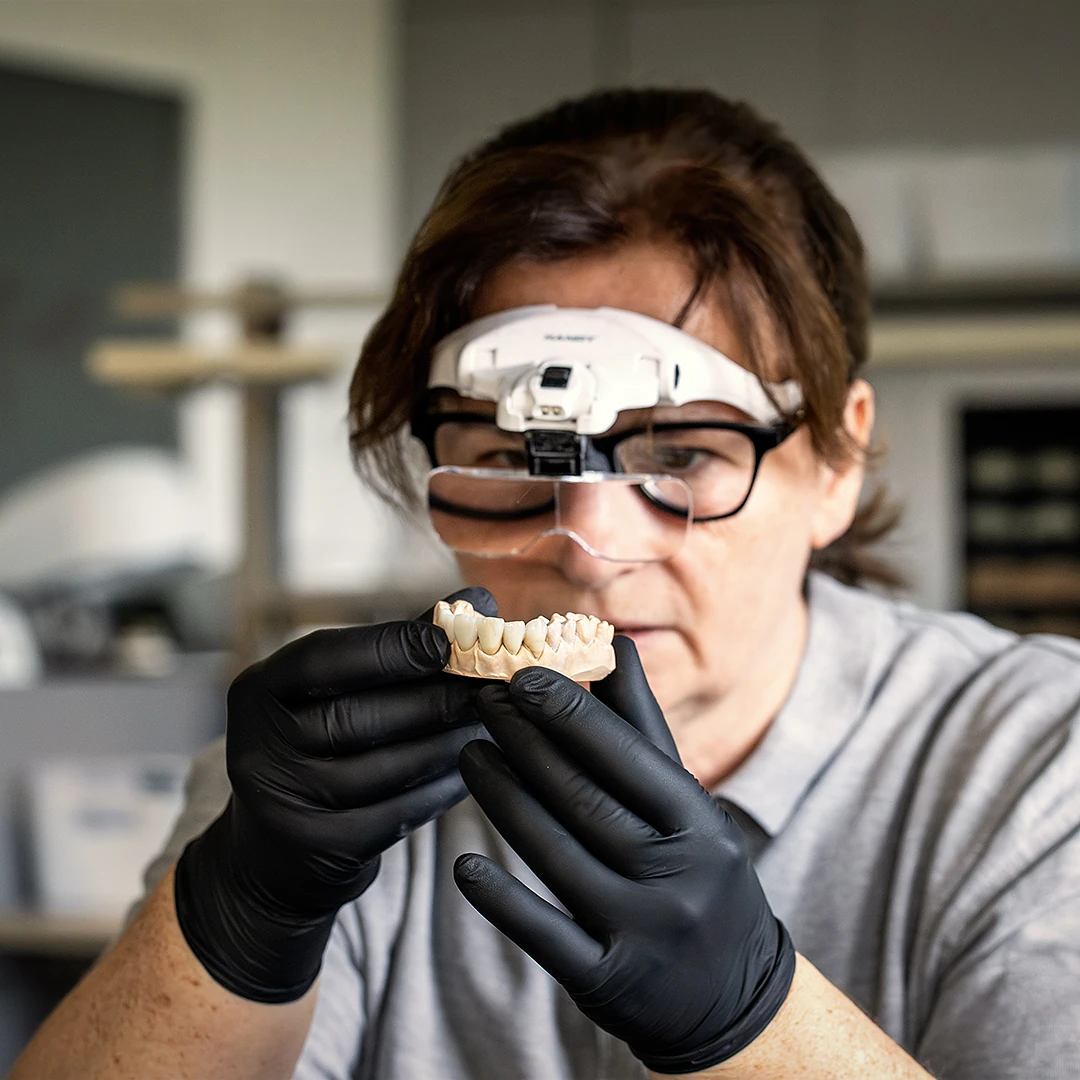
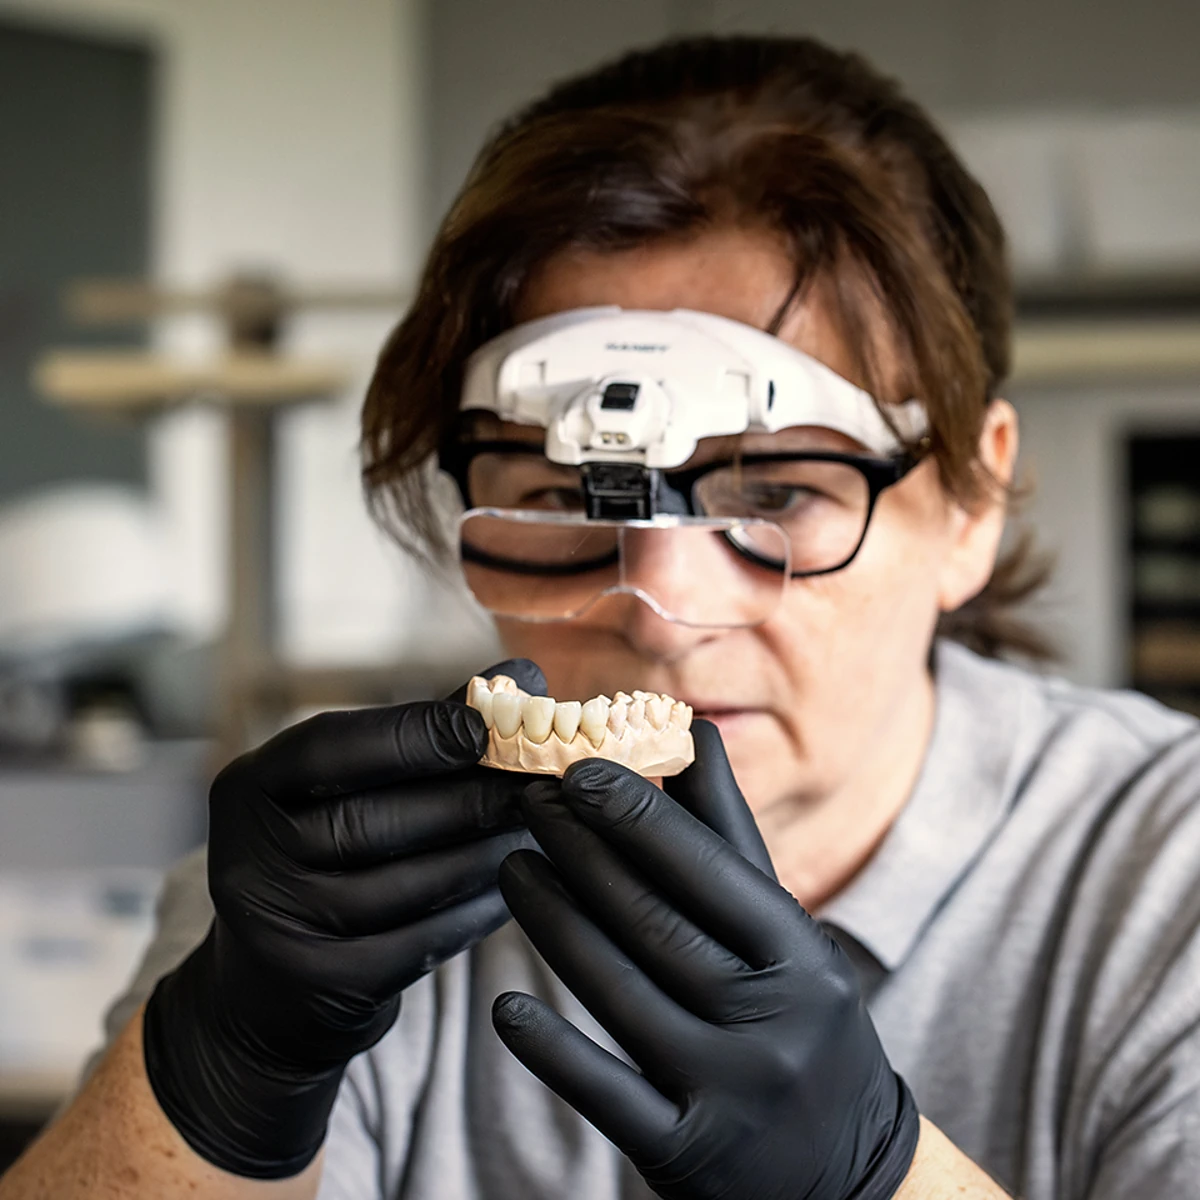
Refine responsive homepage hero

diff --git a/hu/index.html b/hu/index.html
@@ -36,8 +36,8 @@
 
     .cinematic-shell {
       position: relative;
-      min-height: 100vh;
-      min-height: 100svh;
+      height: clamp(720px, 78vh, 820px);
+      min-height: 720px;
       overflow: hidden;
       display: flex;
       flex-direction: column;
@@ -84,7 +84,7 @@
 
     .cinematic-bg picture img {
       object-fit: cover;
-      object-position: center;
+      object-position: center 58%;
       opacity: 0;
       transition: opacity 1.4s ease;
     }
@@ -97,11 +97,17 @@
       position: absolute;
       inset: 0;
       background:
-        linear-gradient(90deg, #0d0a08 0%, #0d0a08 28%, rgba(13, 10, 8, 0.96) 34%, rgba(13, 10, 8, 0.72) 45%, rgba(13, 10, 8, 0.12) 63%, rgba(13, 10, 8, 0.08) 100%),
+        linear-gradient(90deg, #0d0a08 0%, #0d0a08 23%, rgba(13, 10, 8, 0.99) 30%, rgba(13, 10, 8, 0.92) 38%, rgba(13, 10, 8, 0.62) 48%, rgba(13, 10, 8, 0.18) 62%, rgba(13, 10, 8, 0.06) 100%),
         radial-gradient(ellipse at center, transparent 50%, rgba(5, 3, 2, 0.55) 100%);
     }
 
     @media (max-width: 820px) {
+      .cinematic-shell {
+        height: auto;
+        min-height: 100vh;
+        min-height: 100svh;
+      }
+
       .cinematic-bg picture {
         inset: 0;
         width: 100%;

diff --git a/index.html b/index.html
@@ -36,8 +36,8 @@
 
     .cinematic-shell {
       position: relative;
-      min-height: 100vh;
-      min-height: 100svh;
+      height: clamp(720px, 78vh, 820px);
+      min-height: 720px;
       overflow: hidden;
       display: flex;
       flex-direction: column;
@@ -84,7 +84,7 @@
 
     .cinematic-bg picture img {
       object-fit: cover;
-      object-position: center;
+      object-position: center 58%;
       opacity: 0;
       transition: opacity 1.4s ease;
     }
@@ -97,11 +97,17 @@
       position: absolute;
       inset: 0;
       background:
-        linear-gradient(90deg, #0d0a08 0%, #0d0a08 28%, rgba(13, 10, 8, 0.96) 34%, rgba(13, 10, 8, 0.72) 45%, rgba(13, 10, 8, 0.12) 63%, rgba(13, 10, 8, 0.08) 100%),
+        linear-gradient(90deg, #0d0a08 0%, #0d0a08 23%, rgba(13, 10, 8, 0.99) 30%, rgba(13, 10, 8, 0.92) 38%, rgba(13, 10, 8, 0.62) 48%, rgba(13, 10, 8, 0.18) 62%, rgba(13, 10, 8, 0.06) 100%),
         radial-gradient(ellipse at center, transparent 50%, rgba(5, 3, 2, 0.55) 100%);
     }
 
     @media (max-width: 820px) {
+      .cinematic-shell {
+        height: auto;
+        min-height: 100vh;
+        min-height: 100svh;
+      }
+
       .cinematic-bg picture {
         inset: 0;
         width: 100%;
